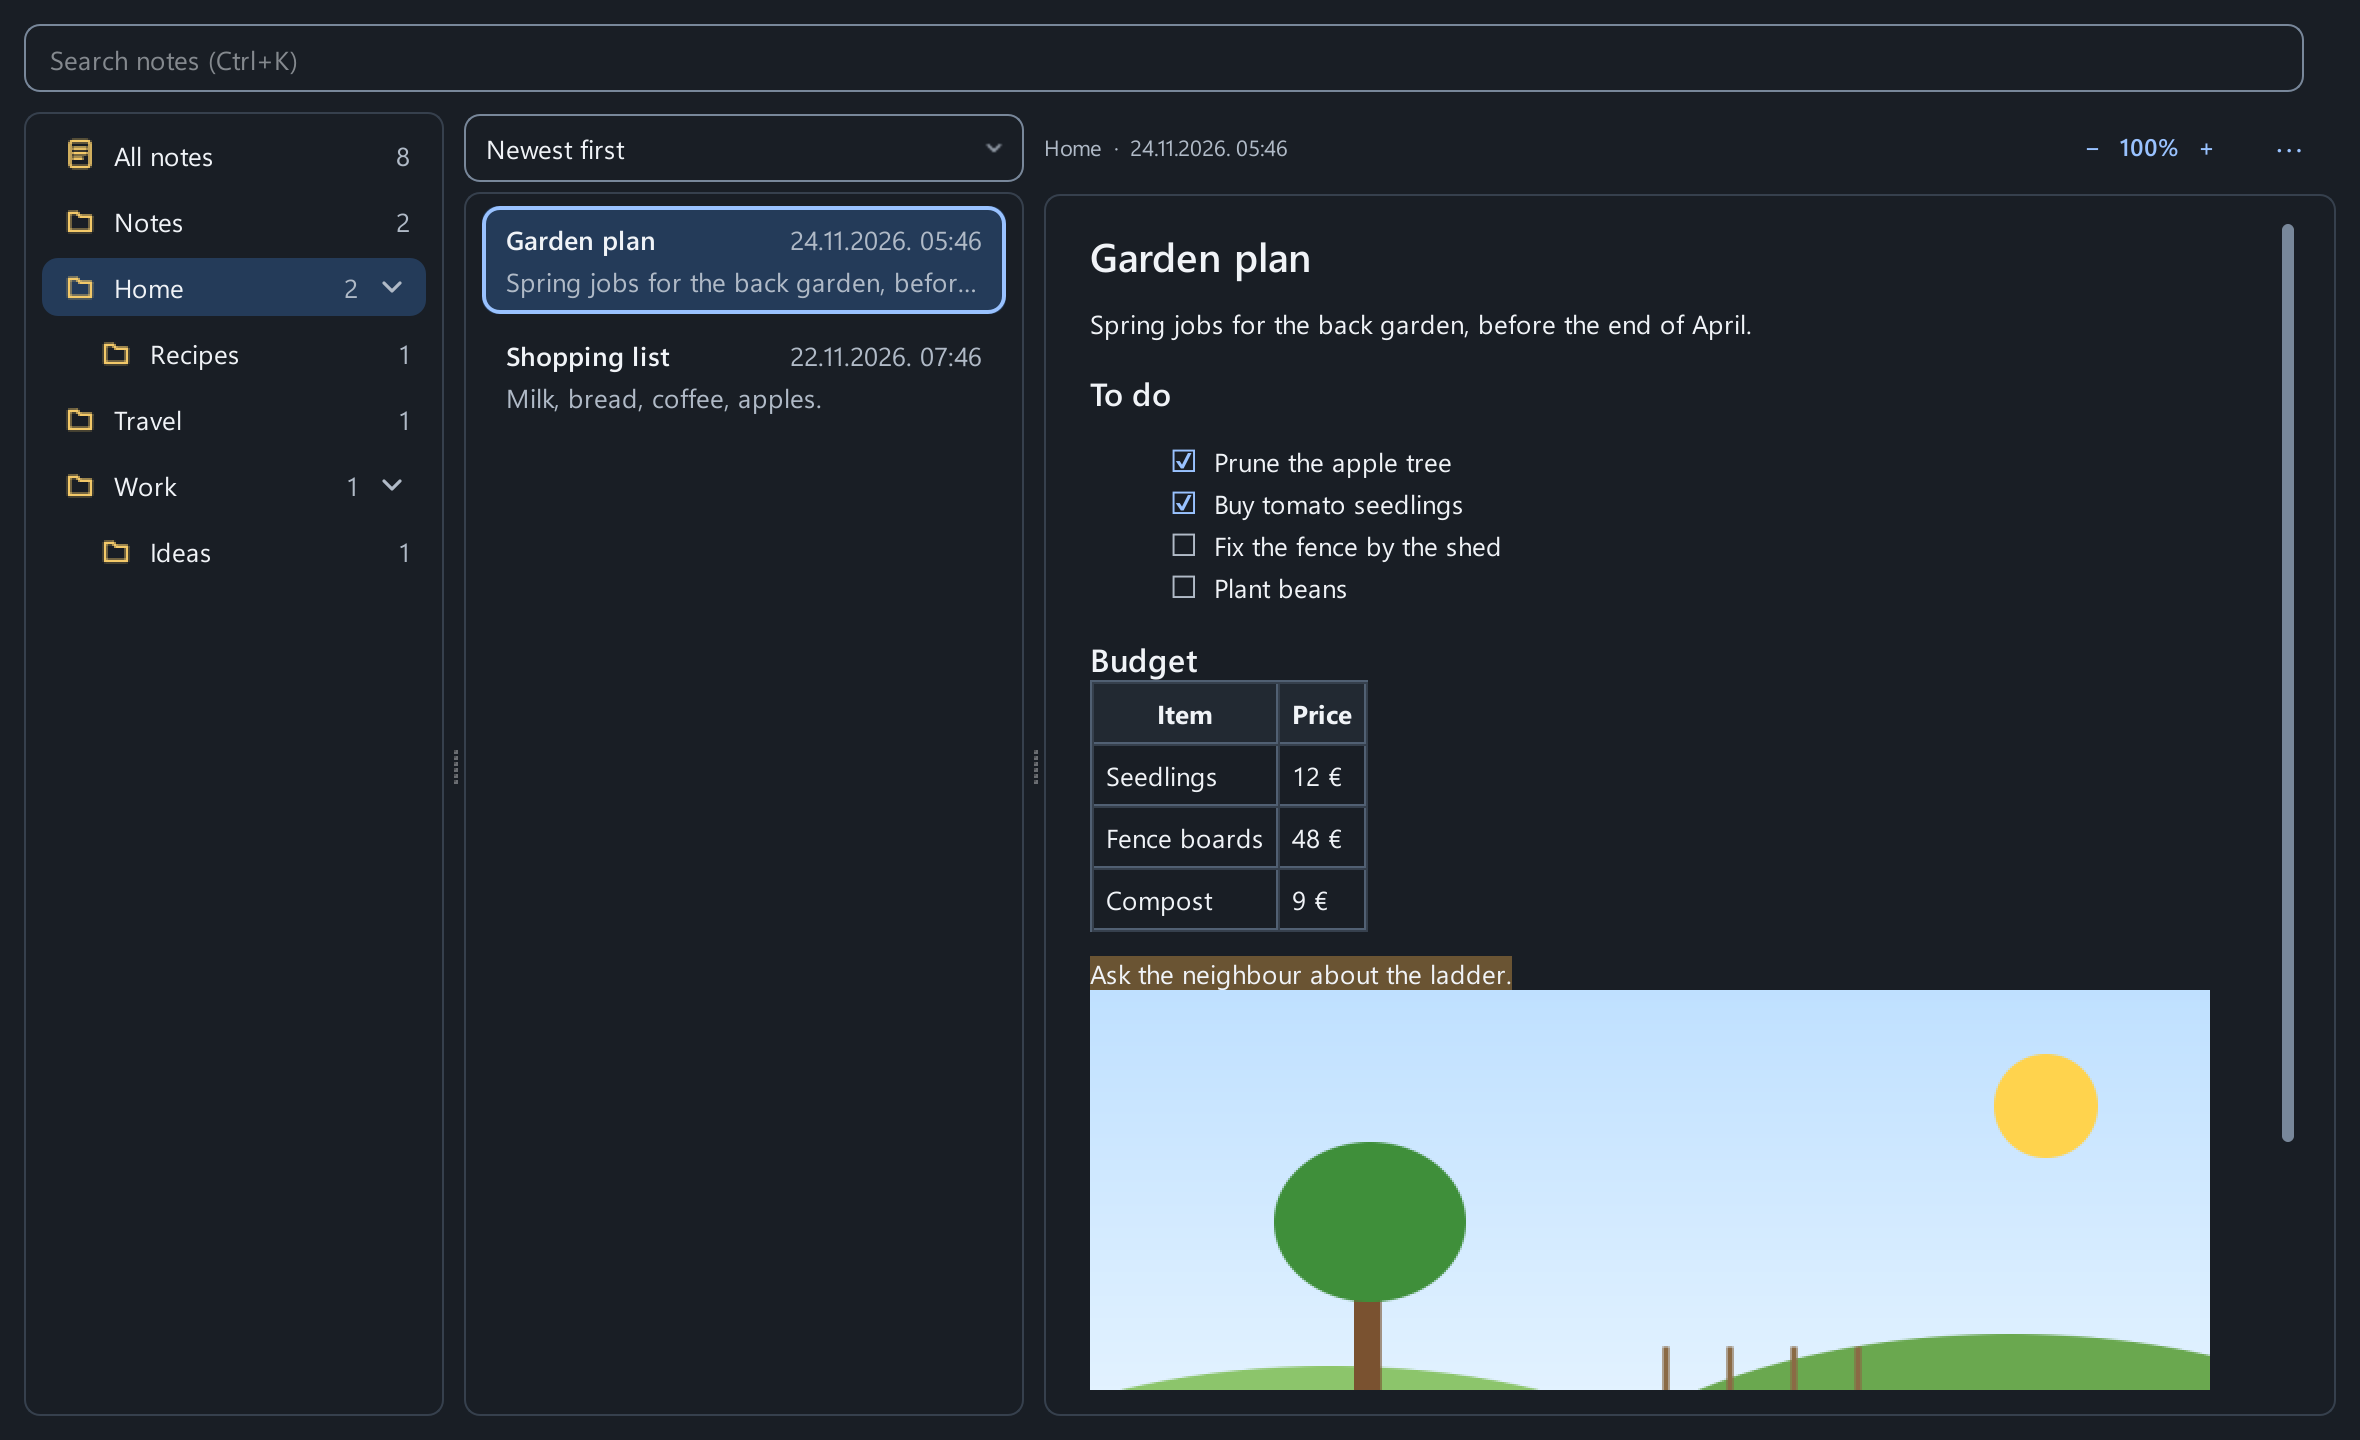
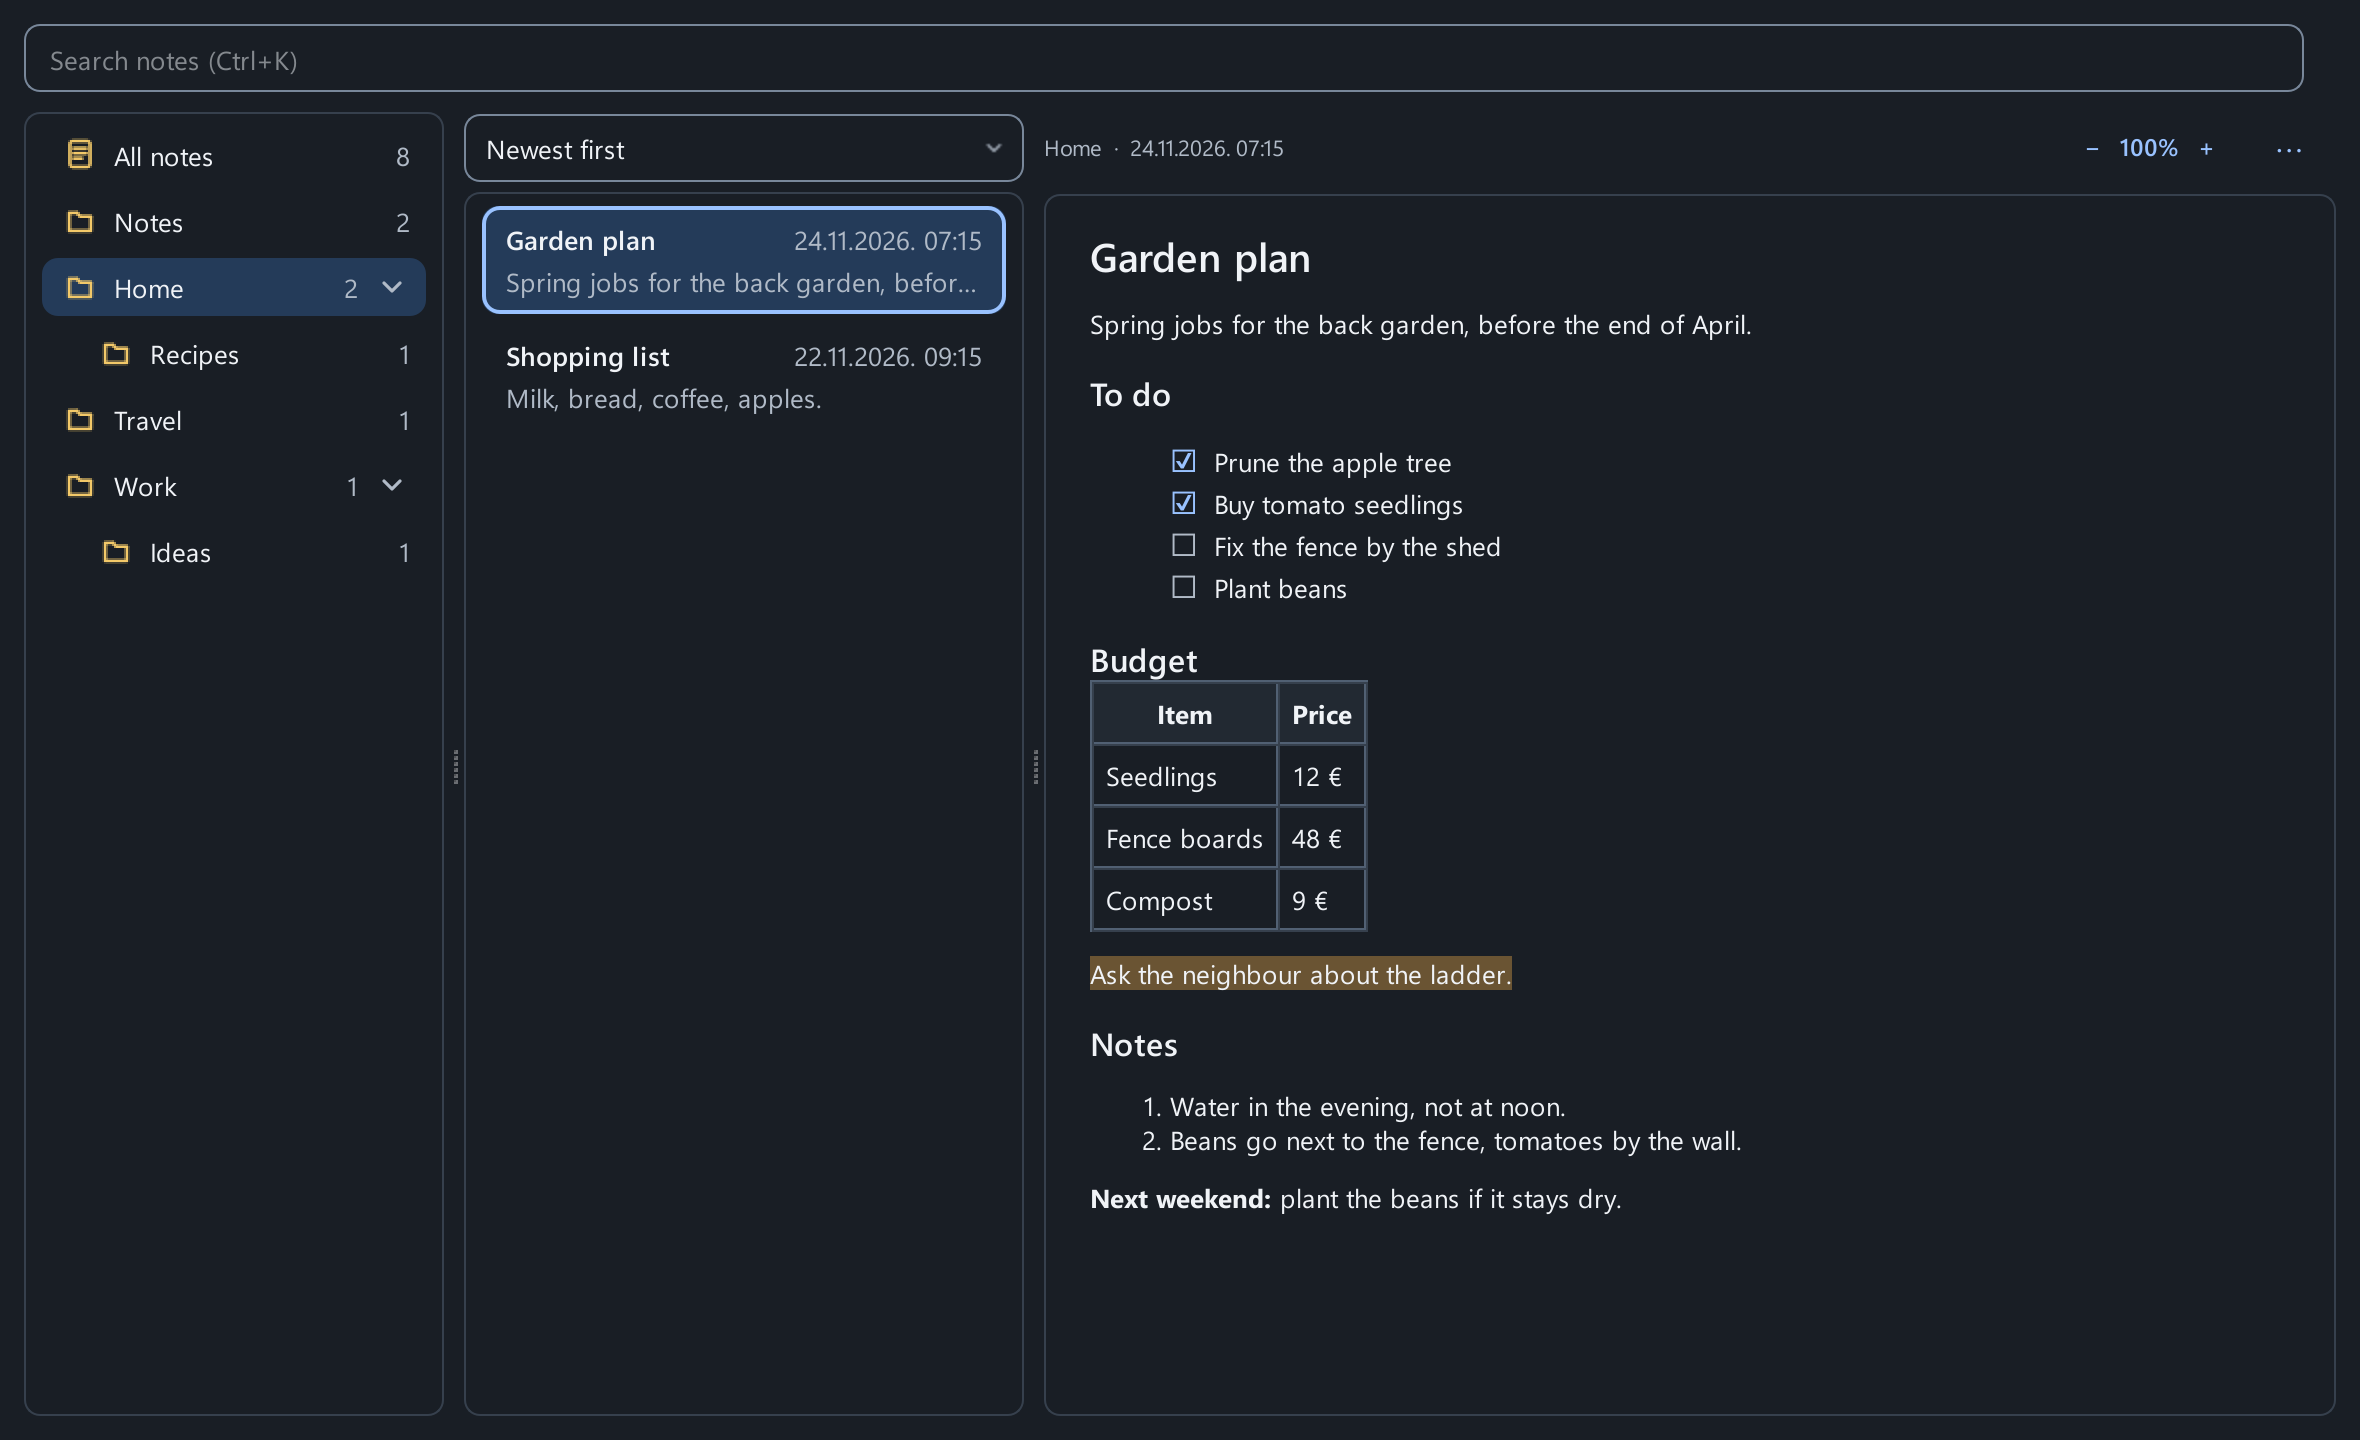
Notes screenshot without the drawn picture

diff --git a/site/index.html b/site/index.html
@@ -183,7 +183,7 @@
           <p>Every unlocked note is also saved as a web page in the same folders as in Notes, with a <code>Notes.html</code> library that opens in any browser. Locked notes are listed by title only. Notes are read-only: edit them on your iPhone, iPad or Mac.</p>
         </div>
         <figure class="shot notes-shot">
-          <img class="window" src="assets/notes-window.webp" width="1600" height="976" loading="lazy" alt="The Skyfold Notes window: folders with note counts, a list of notes, and an open note with a checklist, a table and a picture.">
+          <img class="window" src="assets/notes-window.webp" width="1600" height="976" loading="lazy" alt="The Skyfold Notes window: folders with note counts, a list of notes, and an open note with a checklist and a table.">
         </figure>
       </div>
 

diff --git a/tools_screenshots.py b/tools_screenshots.py
@@ -161,39 +161,12 @@ def notes_window(mode: str, name: str) -> None:
     import tempfile
     import time
 
-    from PySide6.QtCore import QPointF, QRectF
-    from PySide6.QtGui import QColor, QImage, QLinearGradient, QPainter, QPen
-
     from skyfold.notes_engine import NotesState, polish_note_html
     from skyfold.ui.notes_window import NotesWindow
 
     c = use(mode)
     tmp = Path(tempfile.mkdtemp(prefix="skyfold-shot-"))
     root = tmp / "Notes"
-    (root / "_assets" / "n1").mkdir(parents=True)
-    img = QImage(1400, 760, QImage.Format_RGB32)  # a made-up sketch of a garden
-    p = QPainter(img)
-    p.setRenderHint(QPainter.Antialiasing)
-    sky = QLinearGradient(0, 0, 0, 760)
-    sky.setColorAt(0, QColor("#bfe0ff"))
-    sky.setColorAt(1, QColor("#f4fbff"))
-    p.fillRect(img.rect(), sky)
-    p.setPen(Qt.NoPen)
-    p.setBrush(QColor("#8cc56b"))
-    p.drawEllipse(QRectF(-300, 470, 1200, 600))
-    p.setBrush(QColor("#6aa84f"))
-    p.drawEllipse(QRectF(500, 430, 1300, 700))
-    p.setBrush(QColor("#ffd34d"))
-    p.drawEllipse(QRectF(1130, 80, 130, 130))
-    p.setBrush(QColor("#7a5230"))
-    p.drawRect(QRectF(330, 330, 34, 190))
-    p.setBrush(QColor("#3f8f3a"))
-    p.drawEllipse(QRectF(230, 190, 240, 200))
-    for x in (720, 800, 880, 960):
-        p.setPen(QPen(QColor("#8a6a45"), 8))
-        p.drawLine(QPointF(x, 560), QPointF(x, 450))
-    p.end()
-    img.save(str(root / "_assets" / "n1" / "garden.png"))
     garden = """<div class="note-content"><h1>Garden plan</h1>
 <p>Spring jobs for the back garden, before the end of April.</p><h2>To do</h2>
 <ul><li><input type="checkbox" disabled checked> Prune the apple tree</li>
@@ -202,7 +175,9 @@ def notes_window(mode: str, name: str) -> None:
 <h2>Budget</h2><table><tr><th>Item</th><th>Price</th></tr><tr><td>Seedlings</td><td>12 €</td></tr>
 <tr><td>Fence boards</td><td>48 €</td></tr><tr><td>Compost</td><td>9 €</td></tr></table>
 <p><span style="background-color:var(--hl3-bg)">Ask the neighbour about the ladder.</span></p>
-<img src="../_assets/n1/garden.png" alt="garden"></div>"""
+<h2>Notes</h2><ol><li>Water in the evening, not at noon.</li>
+<li>Beans go next to the fence, tomatoes by the wall.</li></ol>
+<p><b>Next weekend:</b> plant the beans if it stays dry.</p></div>"""
     st = NotesState(tmp / "notes.db")
     ago = lambda d, h=0: (NOW - timedelta(days=d, hours=h)).strftime("%Y-%m-%dT%H:%M:%S")  # noqa: E731
     rows = [("g", "Home/Garden plan.html", "Garden plan", "Home", ago(0, 2), False, garden),

diff --git a/README.md b/README.md
@@ -45,7 +45,7 @@
 ## Screenshots
 
 <p>
-  <img src="docs/screenshots/notes-window.png" width="880" alt="The Notes window: folders, your notes and the open note with a checklist, a table and a picture">
+  <img src="docs/screenshots/notes-window.png" width="880" alt="The Notes window: folders, your notes and the open note with a checklist and a table">
 </p>
 <p>
   <img src="docs/screenshots/first-run.png" width="360" alt="First run: choose the photos folder and layout">
